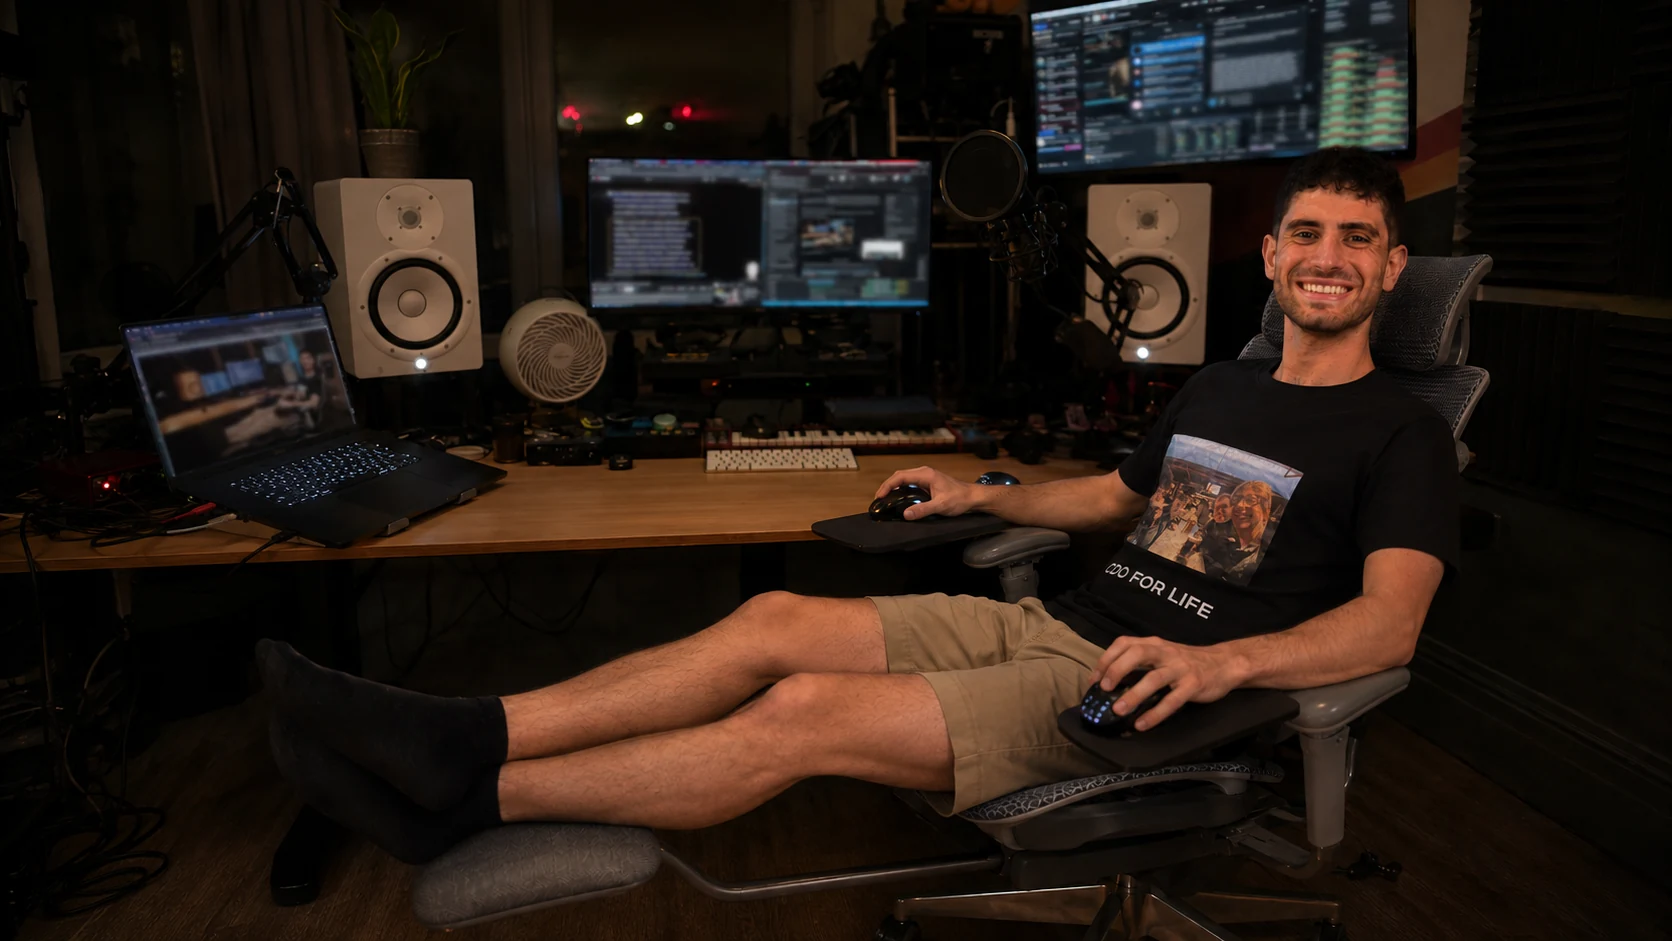
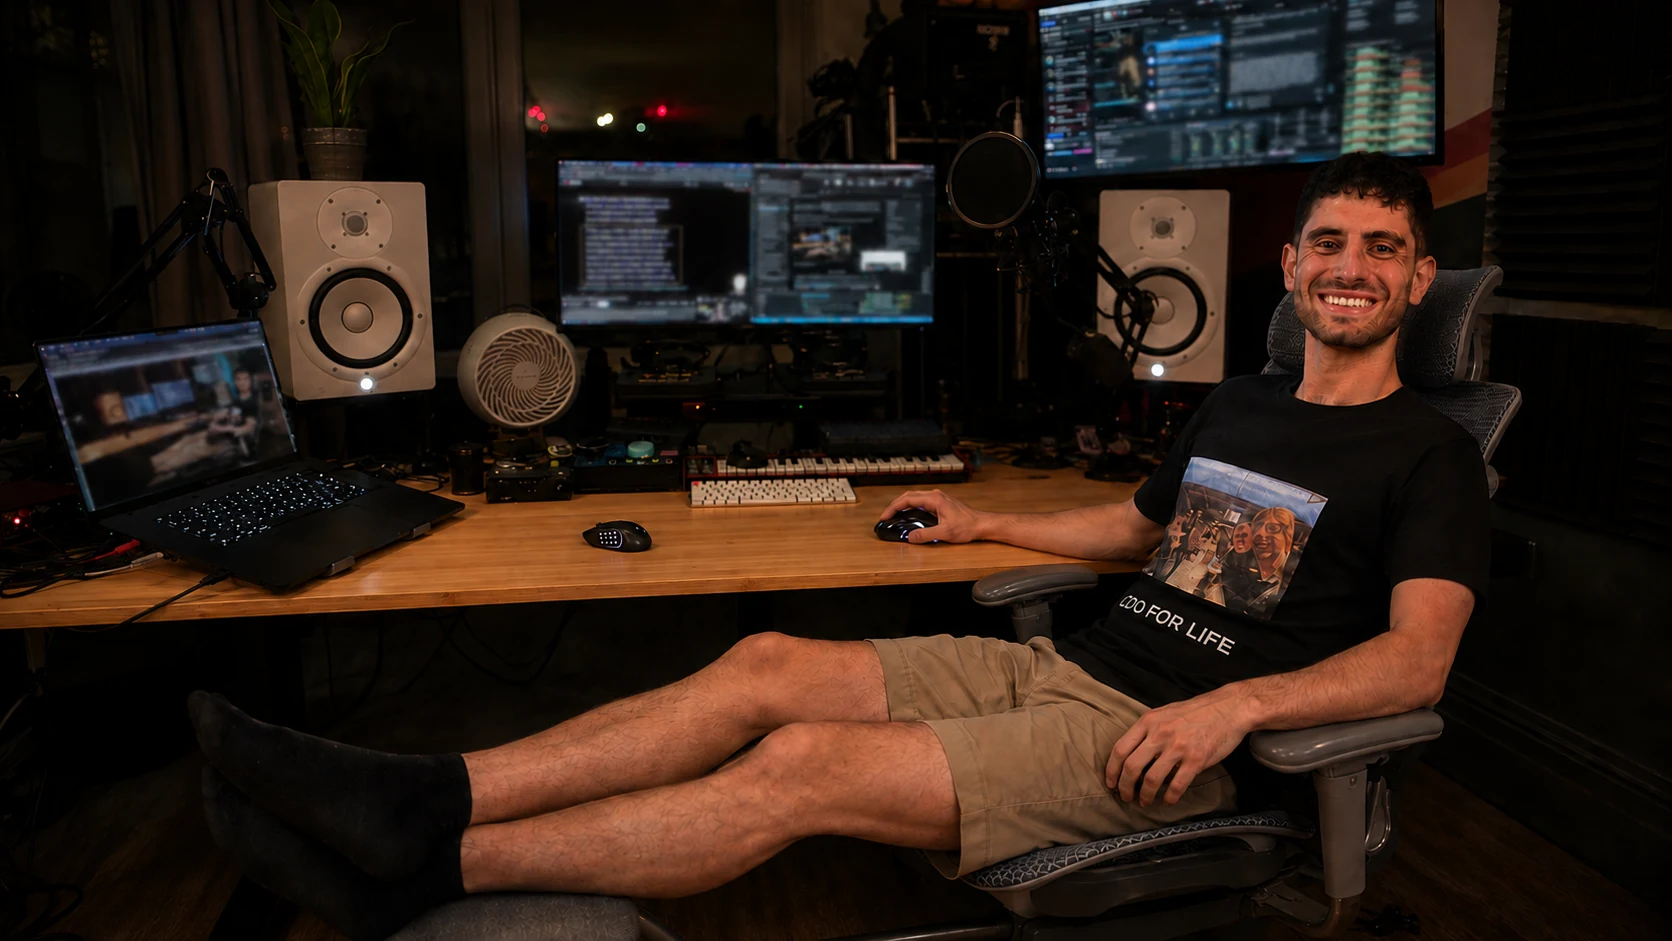
Put both mice on the actual desktop

diff --git a/docs/index.html b/docs/index.html
@@ -240,9 +240,10 @@
               <h2 id="lounge-title">Barely move my hand.<br />Barely touch the keyboard.</h2>
             </div>
             <p>
-              Footrest out. Razer on the left, Corsair on the right. Sensitivity
-              is high, so a small wrist movement crosses the screen. Twelve
-              buttons under either thumb, and speech for the rest.
+              Footrest out. Both mice on the desk. I switch hands whenever I
+              want, and sometimes use both to click through code review faster.
+              High sensitivity keeps movement small. Twelve buttons under either
+              thumb, and speech for the rest.
             </p>
           </div>
           <figure>
@@ -251,7 +252,7 @@
                 src="./assets/ethan-lounging.webp?v=__SITE_VERSION__"
                 width="1672"
                 height="941"
-                alt="AI scene of Ethan reclining in a grey Hbada chair at his music studio desk, with one mouse under each hand and a boom microphone"
+                alt="AI scene of Ethan reclining in a grey Hbada chair, using one mouse on his bamboo desk with a second mouse beside it and his free hand resting in his lap"
                 loading="lazy"
               />
             </div>

diff --git a/docs/SHOWCASE.md b/docs/SHOWCASE.md
@@ -115,7 +115,8 @@ Every displayed image retains its source aspect ratio. Hardware thumbnails use
   in iPhone Photos. The portrait, taken on 2 September 2026, supplies his short
   haircut, face and outfit: a black graphic T-shirt and beige shorts. The desk
   photo supplies the bamboo top, laptop, monitors, speakers and microphone setup.
-  The reclining pose, chair and armrest mouse surfaces are AI reimagined. The image
+  The reclining pose and chair are AI reimagined. Both mice rest on the main
+  desktop, with one in use and the other parked beside it. The image
   remains labelled as AI on the page; it is not a documentary photograph or a
   live application screenshot. Private photo-library originals stay outside the
   repository. The image URL uses the site's content version for browser updates.
